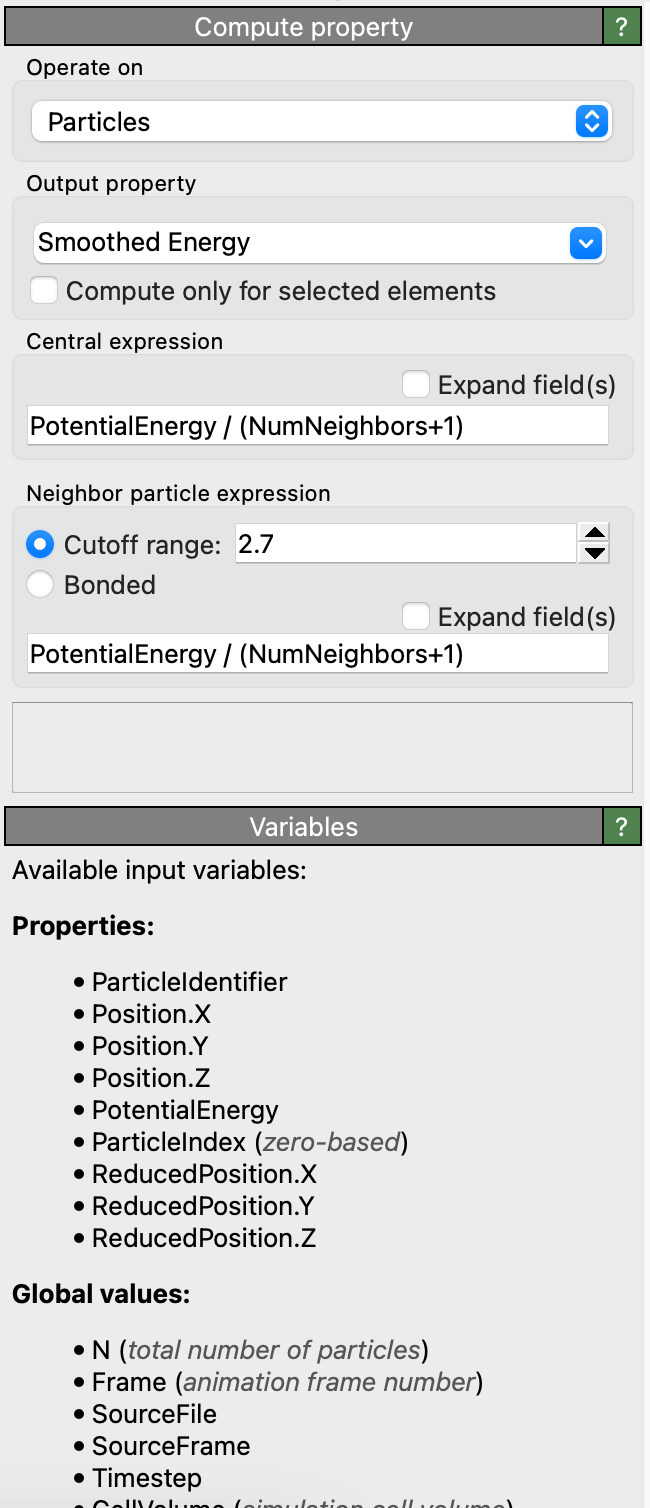
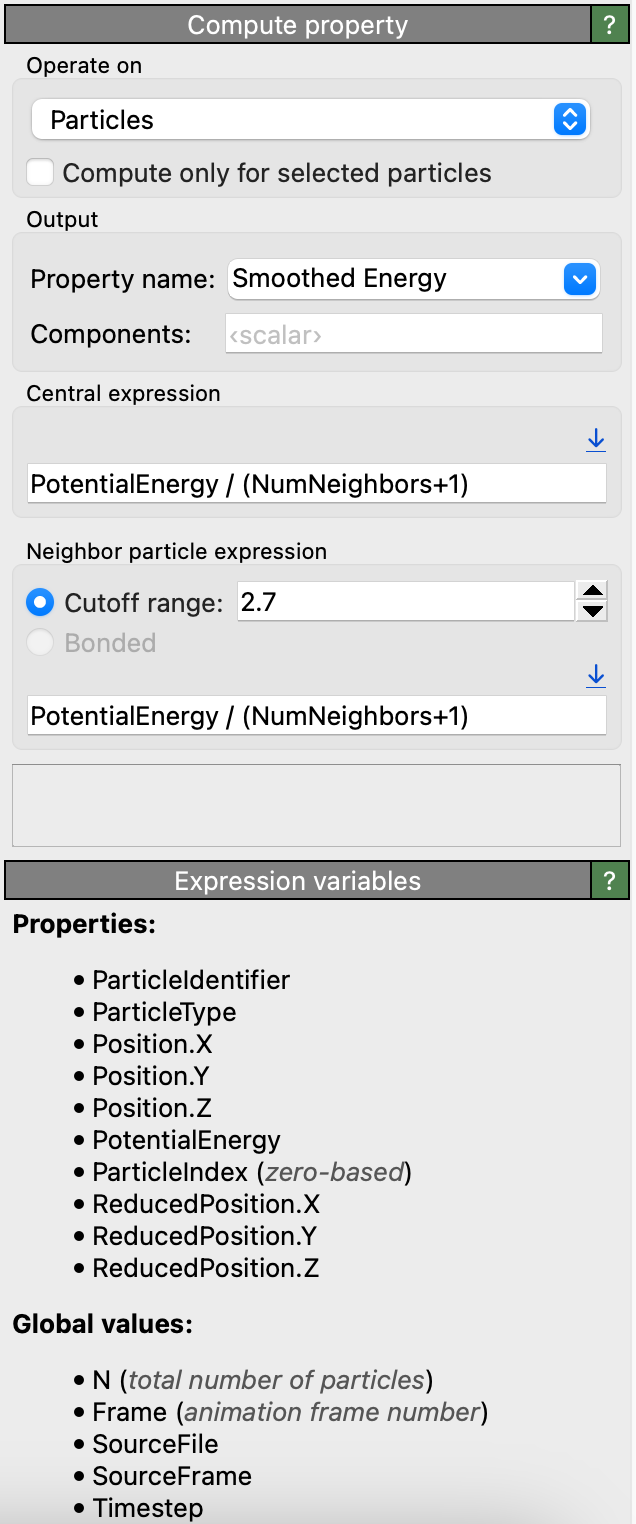
Updated docs of Compute Property modifier

Changed region(s): [[0.0, 0.0, 1.0, 0.4987], [0.0, 0.4987, 1.0, 1.0]]

diff --git a/doc/manual/reference/pipelines/modifiers/compute_property.rst b/doc/manual/reference/pipelines/modifiers/compute_property.rst
@@ -10,10 +10,10 @@ Compute property
   :width: 30%
   :align: right
 
-The *Compute Property* modifier assigns property values to particle, bonds, and other elements based on a user-defined mathematical formula.
-It can also be used to create new :ref:`particle and bond properties <usage.particle_properties>`.
+The *Compute Property* modifier sets property values of particle, bonds, and other elements according to a user-defined mathematical formula.
+It can also be used to create new :ref:`user-defined properties <usage.particle_properties>`.
 
-The mathematical formula for computing the value for each element can reference existing per-particle or per-bond data, as well as
+The math expression for computing the value for each element can reference existing per-particle or per-bond data, as well as
 global parameters such as the simulation box dimensions or the current animation time. A list of available input variables is
 provided in the modifier's user interface. Additionally, the *Compute Property* modifier supports computations involving neighboring particles
 within a defined spherical volume around each particle or which are bonded to the central particle.
@@ -36,9 +36,10 @@ To do so, simply enter a custom property name in the :guilabel:`Output property`
 Standard property names predefined by the software are available in the drop-down list.
 
   - :ref:`List of standard particle properties <particle-properties-list>`
-  - :ref:`List of standard bond properties <bond-types-list>`
-  - :ref:`List of standard line properties <lines-property-list>`
-  - :ref:`List of standard vector properties <vectors-property-list>`
+  - :ref:`List of standard bond properties <bond-properties-list>`
+  - :ref:`List of standard voxel grid properties <voxelgrid-properties-list>`
+  - :ref:`List of standard line properties <lines-properties-list>`
+  - :ref:`List of standard vector properties <vectors-properties-list>`
 
 Vectorial properties
 """"""""""""""""""""
@@ -46,17 +47,16 @@ Vectorial properties
 Some particle properties, such as ``Position`` and ``Color``, consist of multiple components (XYZ and RGB).
 When computing such vector properties, you need to specify a separate scalar expression for each component.
 
-.. note::
-
-  The modifier does not support the creation of new user-defined properties with multiple components -- only scalar properties or
-  predefined vectorial properties can be created. Use a :ref:`Python script modifier <particles.modifiers.python_script>`,
-  which allows to perform NumPy array computations, for more advanced cases.
+Since OVITO 3.12.1, the modifier also supports the creation of user-defined vector properties.
+To define a new vector property, simply enter the names of vector components into the :guilabel:`Components` field
+as a comma-separated list, e.g. "X, Y, Z". The GUI panel will then display a corresponding number of expression
+input fields, which allow you to specify individual expressions for each component.
 
 Selective assignment
 """"""""""""""""""""
 
 If the specified output property already exists, the modifier overwrites it with the newly computed values.
-However, by enabling the :guilabel:`Compute only for selected elements` option, you can restrict property assignment to a
+However, by enabling the :guilabel:`Compute only for selected` option, you can restrict property assignment to a
 subset of particles or bonds, preserving existing values for currently unselected elements.
 
 Conditional values

diff --git a/doc/manual/reference/file_formats/input/lammps_dump_local.rst b/doc/manual/reference/file_formats/input/lammps_dump_local.rst
@@ -165,12 +165,12 @@ you may need to specify the correct mapping by hand in the following dialog disp
   :width: 50%
 
 File columns get automatically mapped to corresponding standard properties in OVITO if their names
-match one of the predefined :ref:`standard bond properties <bond-types-list>` (case insensitive).
+match one of the predefined :ref:`standard bond properties <bond-properties-list>` (case insensitive).
 Spaces that are part of a standard property name must be left out, because LAMMPS dump files do not support column names containing spaces. For example,
 a dump file column named ``BondType`` will be mapped to the standard property :guilabel:`Bond Type`.
 
 For standard properties with multiple components, a component name must be appended with a dot. For example, a dump file column
-named ``ParticleIdentifiers.A`` will automatically be mapped to the second component of the :guilabel:`Particle Identifiers` :ref:`standard bond property <bond-types-list>`
+named ``ParticleIdentifiers.A`` will automatically be mapped to the second component of the :guilabel:`Particle Identifiers` :ref:`standard bond property <bond-properties-list>`
 in OVITO. Note that you can use the LAMMPS `dump_modify colname` command to give the columns in your dump file specific names.
 
 For further information on how to set up the bond property mapping correctly, see the :ref:`particles.modifiers.load_trajectory` modifier.
@@ -185,6 +185,6 @@ The file reader accepts the following keyword parameters in a call to the :py:me
 .. py:function:: load(location, columns = None)
   :noindex:
 
-  :param columns: A list of OVITO :ref:`bond/angle/dihedral/improper property <bond-types-list>` names, one for each data column in the dump local file.
+  :param columns: A list of OVITO :ref:`bond/angle/dihedral/improper property <bond-properties-list>` names, one for each data column in the dump local file.
                   List entries may be set to ``None`` to skip individual file columns during parsing.
   :type columns: list[str|None]

diff --git a/doc/manual/reference/pipelines/data_objects/vectors.rst b/doc/manual/reference/pipelines/data_objects/vectors.rst
@@ -13,7 +13,7 @@ using the Python :py:attr:`DataCollection.DataCollection.vectors.create() <ovito
 method.
 
 Each vector is defined by a base point (property `Position`) and a direction (property `Direction`). More
-:py:ref:`per-vector properties <vectors-property-list>` can be defined for each data element. The
+:py:ref:`per-vector properties <vectors-properties-list>` can be defined for each data element. The
 `Color` property controls the color for each rendered arrow. The property `Transparency` controls the
 transparency of individual arrow glyphs.
 